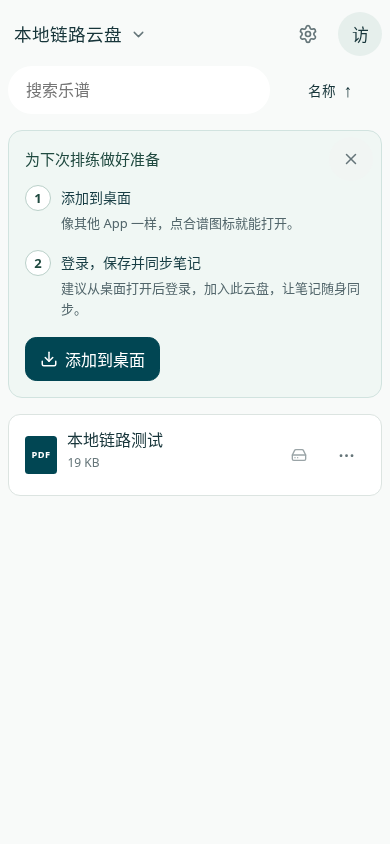
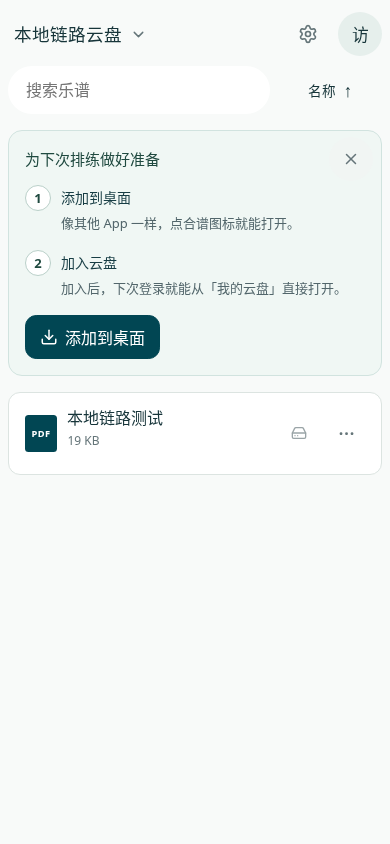
fix: 用成员身份说明云盘加入入口

Changed region(s): [[0.0615, 0.3081, 0.6154, 0.5853], [0.7385, 0.3389, 0.9231, 0.3697], [0.7385, 0.4929, 0.8, 0.5545]]

diff --git a/src/client/score-library/drive-preparation.tsx b/src/client/score-library/drive-preparation.tsx
@@ -9,20 +9,23 @@ import "./drive-preparation.css";
 
 export function DrivePreparation({ choirId, accountReady }: { choirId: string; accountReady: boolean }) {
   const t = useMessages("library");
+  const entry = useMessages("entry");
   const install = useInstall();
   if (!install || (install.hidden && accountReady)) return null;
   const installed = install.hidden;
   const pendingInstall = install.requested && !installed;
   const installTitle = pendingInstall ? t("drivePreparationAddRequestSubmitted") : t("drivePreparationAddDesktop");
   const installHint = pendingInstall ? t("drivePreparationReturnDesktopClickScore") : t("drivePreparationLikeOtherAppsOpened");
-  return <DriveSuggestion id="preparation" label={t("drivePreparationRehearsalPreparation")} title={t("drivePreparationGetReadyNextRehearsal")}
+  const joinTitle = t("drivePreparationJoinDrive");
+  const joinHint = t("drivePreparationJoinHint", { myDrives: entry("home.myDrives") });
+  return <DriveSuggestion id="preparation" label={t("drivePreparationRehearsalPreparation")} title={installed ? joinTitle : t("drivePreparationGetReadyNextRehearsal")}
     closeLabel={t("drivePreparationNotUsedTimeBeing")}
     action={installed
-      ? <Link className="primary-button" to={loginHref(`/choirs/${choirId}`)}>{t("drivePreparationRegisterLogStartTaking")}</Link>
+      ? <Link className="primary-button" to={loginHref(`/choirs/${choirId}`)}>{entry("authIdentify")}</Link>
       : pendingInstall
         ? <Button className="secondary-button" onPress={install.open}>{t("drivePreparationViewAddingHelp")}</Button>
         : <InstallButton className="primary-button" />}>
-    {installed ? <p>{t("drivePreparationRegisterLogAddCloud")}</p> : accountReady ? <>
+    {installed ? <p>{joinHint}</p> : accountReady ? <>
       {pendingInstall && <strong>{installTitle}</strong>}
       <p>{installHint}</p>
     </> : <ol className="preparation-steps">
@@ -34,8 +37,8 @@ export function DrivePreparation({ choirId, accountReady }: { choirId: string; a
       </li>
       <li>
         <span className="preparation-step-marker" aria-hidden="true">2</span>
-        <div><strong>{t("drivePreparationLogSaveSyncNotes")}</strong>
-          <p>{t("drivePreparationRecommendedLogAfterOpening")}</p>
+        <div><strong>{joinTitle}</strong>
+          <p>{joinHint}</p>
         </div>
       </li>
     </ol>}

diff --git a/src/client/score-library/drive-preparation.test.tsx b/src/client/score-library/drive-preparation.test.tsx
@@ -14,7 +14,7 @@ function mount(accountReady: boolean, installed = false) {
 it.each([
   { accountReady: false, installed: false, installation: true, login: null },
   { accountReady: true, installed: false, installation: true, login: null },
-  { accountReady: false, installed: true, installation: false, login: "注册 / 登录，开始记笔记" },
+  { accountReady: false, installed: true, installation: false, login: "登录或注册" },
   { accountReady: true, installed: true, installation: false, login: null },
 ])("shows only unfinished preparation: member=$accountReady installed=$installed", ({ accountReady, installed, installation, login }) => {
   mount(accountReady, installed);
@@ -23,6 +23,7 @@ it.each([
   else expect(screen.queryByRole("link")).not.toBeInTheDocument();
   expect(Boolean(screen.queryByRole("complementary", { name: "排练准备" }))).toBe(!(accountReady && installed));
   expect(screen.queryAllByRole("listitem")).toHaveLength(accountReady || installed ? 0 : 2);
+  expect(Boolean(screen.queryByText("加入后，下次登录就能从「我的云盘」直接打开。"))).toBe(!accountReady);
 });
 
 it("does not mark an accepted installation request complete before confirmation", async () => {

diff --git a/src/client/auth/offline-entry.test.tsx b/src/client/auth/offline-entry.test.tsx
@@ -275,7 +275,7 @@ it("does not flash login preparation in the installed app while a remembered mem
   await findSavedScoreLink();
   await waitFor(() => expect(finishBootstrap).toBeDefined());
   expect(screen.queryByRole("complementary", { name: "排练准备" })).not.toBeInTheDocument();
-  expect(screen.queryByRole("link", { name: "注册 / 登录，开始记笔记" })).not.toBeInTheDocument();
+  expect(screen.queryByRole("link", { name: "登录或注册" })).not.toBeInTheDocument();
   await act(async () => finishBootstrap(Response.json(bootstrap)));
   await screen.findByRole("link", { name: /^cloud$/ });
   expect(screen.queryByRole("complementary", { name: "排练准备" })).not.toBeInTheDocument();
